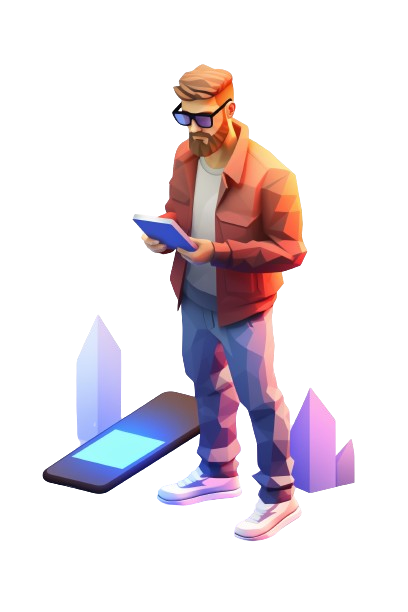
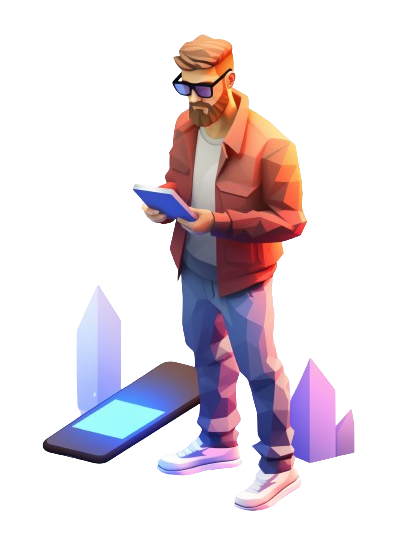
chaned heroImage

diff --git a/src/App.css b/src/App.css
@@ -62,20 +62,19 @@ header .menu-icon-container{
 }
 main{
   width: 100vw;
-  height: 100vh;
   color:var(--text);
   background-color:var(--backgroundcolor);
-  padding:0 5rem 0 7.5rem;
+  padding:5rem 2.5rem;
+  padding-left: 5rem;
   display: flex;
-  gap:10%;
   justify-content: space-between;
   align-items: center;
 }
 main .hero-details-container{
   width: 45%;
   display: flex;
-  gap:1.5rem;
   flex-direction: column;
+  gap:1rem;
   opacity: 0;
   animation: slide-right 0.2s ease forwards;
   animation-delay: 0.5s;
@@ -104,7 +103,7 @@ main .hero-details-container{
   }
 }
 main .hero-image-container{
-  width: 45%;
+  width: 50%;
   opacity: 0;
   animation: zoom 0.5s ease forwards, heroAnimate ease-in-out 3s infinite;
   animation-delay: 0.5s, 1.5s;
@@ -112,8 +111,6 @@ main .hero-image-container{
     width: 62.5%;
     display: block;
     margin: auto;
-    border-top-right-radius: 5rem;
-    border-bottom-left-radius: 5rem;
     filter: drop-shadow( 0.1rem 0.1rem 0.3rem var(--masterblue));
   }
 }
@@ -399,12 +396,13 @@ main .hero-image-container{
     }
   }
   main{
-    height: 95vh;
+    height: 92.5lvh;
+    justify-content:unset;
     flex-direction: column-reverse;
-    justify-content: end;
-    gap:2.5rem;
-    padding:2.5rem 1rem;
+    gap:0.75rem;
+    padding:1rem;
     & .hero-details-container{
+      gap:1rem;
       width: 100%;
       & p{
         font-size: 1rem;
@@ -414,10 +412,6 @@ main .hero-image-container{
       width: 100%;
       & img{
         width: 80%;
-        border-radius: 0;
-        border-top-left-radius: 3rem;
-        border-bottom-right-radius: 3rem;
-        box-shadow: -0.15rem -0.15rem 1rem var(--masterblue);
       }
     }
   }

diff --git a/src/index.jsx b/src/index.jsx
@@ -158,21 +158,13 @@ const About = () =>{
       </div>
       <div className="about-details-container">
         <div className="about-box">
-          <h3>Education</h3><br/>
-          <p><b>Pursuing B.Tech CSE AIML stream</b></p>
-        </div>
-        <div className="about-box">
-          <h3>Goal</h3><br/>
-          <p><b>Aiming to become an AIML Engineer</b></p>
-        </div>
-        <div className="about-box">
           <h3>Programming in</h3><br/>
           <p className="language"><span>&#10004;</span><b>C</b></p>
           <p className="language"><span>&#10004;</span><b>ML in Python</b></p>
           <p className="language"><span>&#10004;</span><b>DSA in Java</b></p>
         </div>
         <div className="about-box">
-          <h3>Web Suite</h3><br/>
+          <h3>Development in</h3><br/>
           <p className="language"><span>&#10004;</span><b>Html</b></p>
           <p className="language"><span>&#10004;</span><b>CSS - Bootsrap</b></p>
           <p className="language"><span>&#10004;</span><b>Js - React Js</b></p>
@@ -186,7 +178,7 @@ const Contact = () =>{
   return(
     <footer id='contact'>
       <div className="footer-container" id="contact">
-        <h2 >Contact Me</h2>
+        <h2 >Get in touch</h2>
         <div className="footer-links-container">
           <a href="https://www.linkedin.com/in/s-abhiramreddy-597346260" target="_blank" rel="noopener noreferrer"><i className="fa fa-linkedin-square"></i></a>
           <a href="https://github.com/webdev4644" target="_blank" rel="noopener noreferrer"><i className="fa fa-github-square"></i></a>
